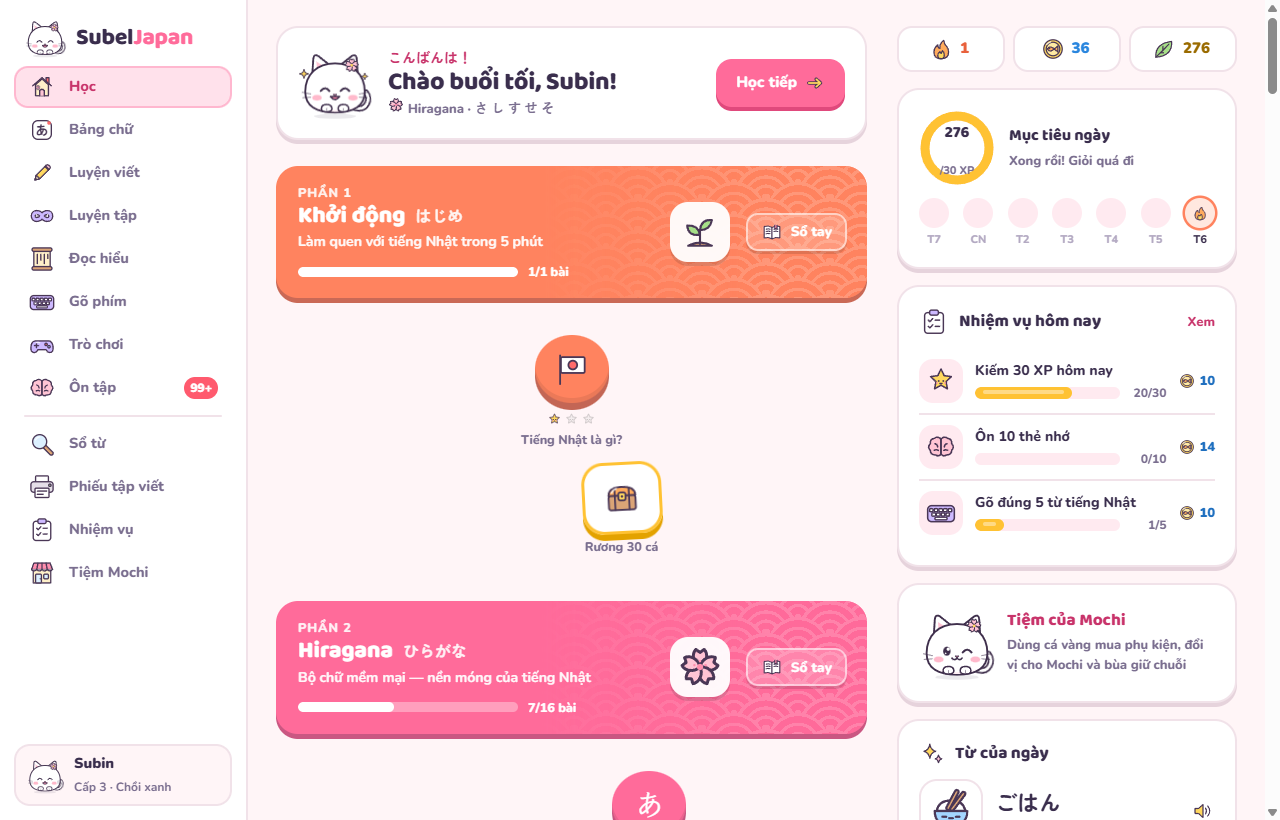
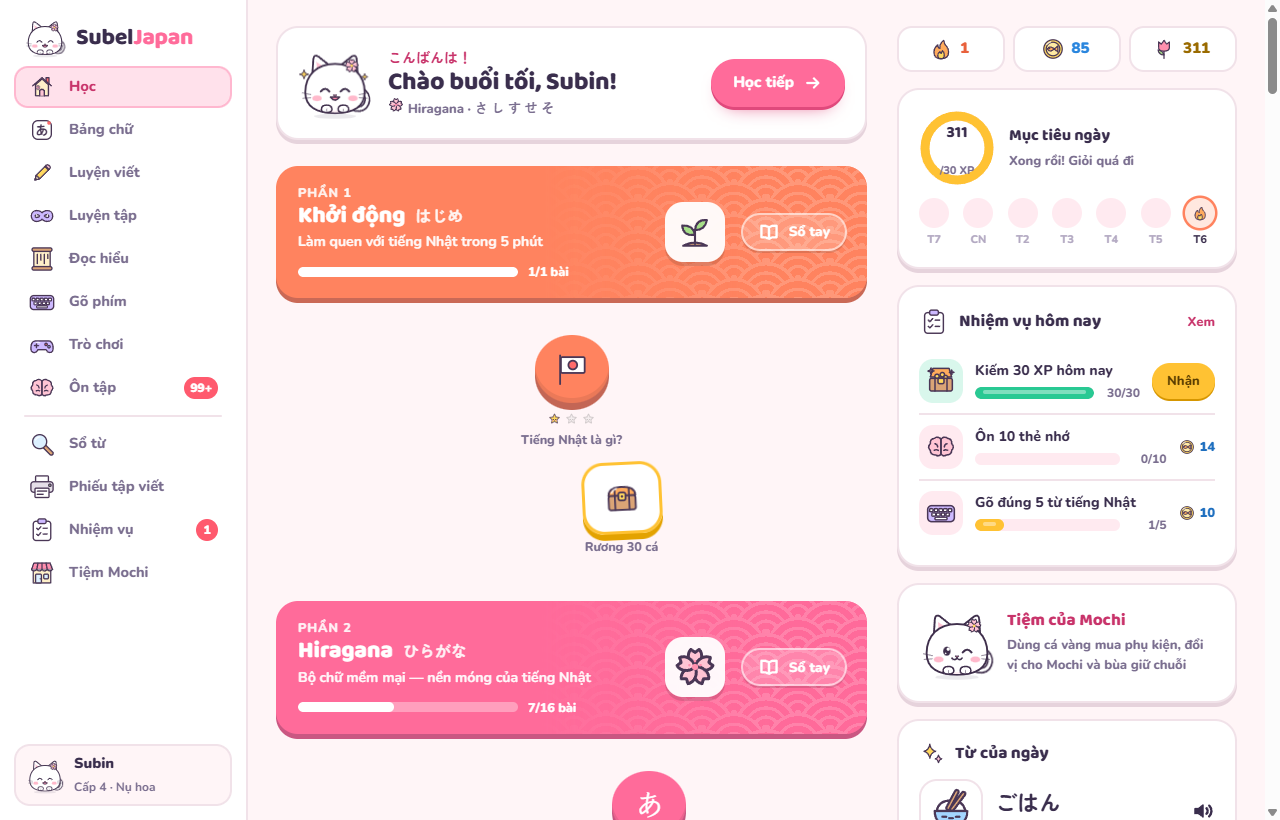
Nút bấm gọn đẹp hơn, căn giữa Mochi, hộp lên cấp mới
- Icon trong nút bấm chuyển sang nét mảnh cùng màu chữ (mũi tên, loa, bút, X…)
- Nút bo tròn dạng viên thuốc, bóng nhẹ hơn; nút đóng hộp thoại tối giản
- Mochi luôn căn giữa trong hộp thoại; hộp "Lên cấp" có nền hồng và quà cá vàng
- Hộp thoại và thông báo luôn hiện đầy đủ kể cả khi tab chạy nền

diff --git a/css/style.css b/css/style.css
@@ -1219,3 +1219,53 @@ code { font: 800 .92em var(--f-body); padding: 1px 6px; border-radius: 6px; back
 }
 [data-theme="yoru"] .ic, [data-theme="yoru"] .mascot { filter: drop-shadow(0 0 .7px rgba(255,255,255,.85)) drop-shadow(0 0 .7px rgba(255,255,255,.6)); }
 [data-theme="yoru"] .star:not(.on) { filter: grayscale(1) opacity(.35); }
+
+/* =========================================================
+   Nút bấm tinh chỉnh + icon nét mảnh
+   ========================================================= */
+.gl { display: inline-block; flex: none; fill: none; stroke: currentColor; stroke-width: 2.4; stroke-linecap: round; stroke-linejoin: round; vertical-align: middle; overflow: visible; }
+.gl .f { fill: currentColor; stroke-width: 1.4; }
+.mascot { display: inline-block; vertical-align: middle; }
+.btn {
+  border-radius: 999px; padding: 10px 22px; gap: 9px;
+  box-shadow: 0 3px 0 var(--bd), 0 10px 18px -12px var(--bd);
+  transition: transform .1s, box-shadow .1s, filter .15s, background .15s;
+}
+.btn:hover { filter: brightness(1.04); transform: translateY(-1px); box-shadow: 0 4px 0 var(--bd), 0 12px 20px -12px var(--bd); }
+.btn:active { transform: translateY(2px); box-shadow: 0 1px 0 var(--bd); }
+.btn-lg { border-radius: 999px; padding: 12px 30px; }
+.btn-sm { border-radius: 999px; padding: 6px 15px; box-shadow: 0 2px 0 var(--bd); }
+.btn-sm:hover { box-shadow: 0 3px 0 var(--bd); }
+.btn-sm:active { transform: translateY(1px); box-shadow: 0 1px 0 var(--bd); }
+.btn .gl { stroke-width: 2.6; }
+.btn-white, .btn-paper { --bd: var(--line2); border: 2px solid var(--line); color: var(--ink); }
+.btn-white .gl, .btn-paper .gl { color: var(--pri-t); }
+.btn-ghost, .btn-ghost:hover { box-shadow: none; transform: none; }
+.btn[disabled], .btn.disabled { box-shadow: none; transform: none; opacity: .75; }
+.btn-round { width: 48px; height: 48px; min-height: 48px; padding: 0; }
+.btn-yel { --bd: #d69600; }
+.ub-guide { border-radius: 999px; }
+.modal-x { width: 38px; height: 38px; border-radius: 50%; background: transparent; color: var(--ink3); transition: background .15s, color .15s; }
+.modal-x:hover { background: var(--bg2); color: var(--ink); }
+.lesson-x { color: var(--ink3); opacity: 1; border-radius: 50%; }
+.lesson-x:hover { color: var(--ink); }
+.icon-btn { color: var(--ink2); border-radius: 50%; }
+.say-btn { color: var(--pri-t); border-radius: 50%; }
+.ex-say { color: var(--ink3); opacity: 1; }
+.chip-btn { border-radius: 999px; }
+.seg { border-radius: 999px; }
+.seg button { border-radius: 999px; }
+.lesson-foot [data-prev] { border-radius: 50%; width: 56px; height: 56px; min-height: 56px; }
+@media (max-width: 760px) { .lesson-foot [data-prev] { flex: 0 0 56px; } }
+.modal .center > .mascot, .modal-body > .center > .mascot { margin: 0 auto; }
+.pn-pop .btn { border-radius: 999px; }
+.drill-bar { border-radius: 999px; padding-left: 24px; }
+.levelup { text-align: center; }
+.lu-top { position: relative; margin: -26px -26px 14px; padding: 26px 20px 10px; border-radius: 26px 26px 0 0; background: var(--pri-l);
+  background-image: radial-gradient(circle at 20% 30%, rgba(255,255,255,.7) 0 4px, transparent 5px), radial-gradient(circle at 82% 22%, rgba(255,255,255,.7) 0 3px, transparent 4px), radial-gradient(circle at 70% 75%, rgba(255,255,255,.6) 0 5px, transparent 6px); }
+.lu-badge { position: absolute; right: calc(50% - 98px); bottom: 14px; width: 64px; height: 64px; border-radius: 50%; display: grid; place-items: center; background: var(--card); box-shadow: 0 4px 0 var(--line2); }
+.lu-kicker { font: 900 13px var(--f-body); color: var(--pri-t); text-transform: uppercase; letter-spacing: 1.5px; }
+.levelup h2 { font-size: 26px; margin: 4px 0 6px; }
+.levelup p { color: var(--ink2); font-weight: 700; }
+.lu-gift { display: inline-flex; align-items: center; gap: 6px; padding: 6px 16px; border-radius: 999px; background: var(--sky-l); color: var(--sky-t); font: 900 20px var(--f-body); margin-bottom: 16px; }
+@media (max-width: 760px) { .lu-top { margin: -22px -18px 14px; } }

diff --git a/js/icons.js b/js/icons.js
@@ -318,13 +318,42 @@ window.SJ = window.SJ || {};
   Object.keys(NUMS).forEach((k, i) => { const t = NUMS[k]; const s = t.length >= 4 ? 13 : t.length === 3 ? 16 : t.length === 2 ? 20 : 24; I[k] = () => R(7, 7, 34, 34, 10, NCOL[i % NCOL.length]) + T(24, 24 + s * .36, t, s); });
 
   const cache = {};
+  // ---------- Icon nét mảnh (dùng trong nút bấm, theo màu chữ của nút) ----------
+  const GL = {
+    arrow_r: '<path d="M5 12h13.5M13 6.5 18.5 12 13 17.5"/>',
+    arrow_l: '<path d="M19 12H5.5M11 6.5 5.5 12l5.5 5.5"/>',
+    play: '<path class="f" d="M8 5.8v12.4a.8.8 0 0 0 1.2.7l9.6-6.2a.8.8 0 0 0 0-1.4L9.2 5.1A.8.8 0 0 0 8 5.8z"/>',
+    check: '<path d="M5 12.5 9.6 17 19 7.5"/>',
+    batsu: '<path d="M6.5 6.5l11 11M17.5 6.5l-11 11"/>',
+    refresh: '<path d="M19.5 12a7.5 7.5 0 1 1-2.2-5.3M19.5 4.5v4.2h-4.2"/>',
+    speaker: '<path class="f" d="M4 9.6h3.4L12 6v12l-4.6-3.6H4z"/><path d="M15.5 9.2a4 4 0 0 1 0 5.6M18.2 6.6a7.6 7.6 0 0 1 0 10.8"/>',
+    mute: '<path class="f" d="M4 9.6h3.4L12 6v12l-4.6-3.6H4z"/><path d="M15.5 9.5l5 5M20.5 9.5l-5 5"/>',
+    pencil: '<path d="M4.5 19.5l1-4.4L15.6 5a2.1 2.1 0 0 1 3 0l.4.4a2.1 2.1 0 0 1 0 3L8.9 18.5zM13.6 7l3.4 3.4"/>',
+    eraser: '<path d="M8.5 19.5H20M5.6 15.4l8.8-8.8a2 2 0 0 1 2.8 0l2.2 2.2a2 2 0 0 1 0 2.8L12 19.1H8.6zM9.6 11.4l5 5"/>',
+    bulb: '<path d="M9.2 17.5h5.6M10.2 20.5h3.6M12 3.5a5.8 5.8 0 0 0-3.4 10.5c.6.5.9 1.1.9 1.9v.1h5v-.1c0-.8.3-1.4.9-1.9A5.8 5.8 0 0 0 12 3.5z"/>',
+    eye: '<path d="M2.8 12S6.2 5.8 12 5.8 21.2 12 21.2 12 17.8 18.2 12 18.2 2.8 12 2.8 12z"/><circle cx="12" cy="12" r="2.8"/>',
+    undo: '<path d="M9 5.5 4.5 10 9 14.5M4.5 10H15a4.8 4.8 0 0 1 0 9.6h-3"/>',
+    slow: '<path d="M4 16.5h13.5a3 3 0 0 0 3-3v-1"/><path d="M5.5 16.5a6.5 5.5 0 0 1 12 0"/><path d="M8 16.5v2.5M14.5 16.5v2.5M20.5 12.5h.1"/>',
+    download: '<path d="M12 4v11M7 10.5l5 5 5-5M5 20h14"/>',
+    upload: '<path d="M12 15.5V4.5M7 9.5l5-5 5 5M5 20h14"/>',
+    trash: '<path d="M4.5 7h15M9.5 7V4.8h5V7M6.5 7l1 12.5h9l1-12.5M10 10.5v6M14 10.5v6"/>',
+    question: '<circle cx="12" cy="12" r="8.5"/><path d="M9.6 9.6a2.5 2.5 0 1 1 3.6 2.2c-.8.4-1.2 1-1.2 1.8v.3"/><path d="M12 16.8h.01" stroke-width="3"/>',
+    printer: '<path d="M7 9V4h10v5M7 17H5.2A1.7 1.7 0 0 1 3.5 15.3v-4.6A1.7 1.7 0 0 1 5.2 9h13.6a1.7 1.7 0 0 1 1.7 1.7v4.6a1.7 1.7 0 0 1-1.7 1.7H17M7 13.5h10V20H7z"/>',
+    book: '<path d="M12 6.8C10 5.3 7.2 4.8 3.8 5.2v12.6c3.4-.4 6.2.1 8.2 1.6 2-1.5 4.8-2 8.2-1.6V5.2c-3.4-.4-6.2.1-8.2 1.6zM12 6.8v12.6"/>',
+    sparkle: '<path d="M12 3.8l1.7 4.8 4.8 1.7-4.8 1.7L12 16.8l-1.7-4.8-4.8-1.7 4.8-1.7zM18.5 15.5l.7 1.8 1.8.7-1.8.7-.7 1.8-.7-1.8-1.8-.7 1.8-.7z"/>',
+  };
+  const glyph = (name, size, cls) => `<svg class="gl ${cls || ''}" viewBox="0 0 24 24" width="${size}" height="${size}" aria-hidden="true">${GL[name]}</svg>`;
+
   function icon(name, size, cls) {
     size = size || 24;
+    // cỡ nhỏ (trong nút, nhãn) → icon nét mảnh cùng màu chữ cho gọn gàng
+    if (size <= 24 && GL[name]) return glyph(name, size, cls);
     const fn = I[name];
     if (!fn) return '';
     const inner = cache[name] || (cache[name] = fn());
     return `<svg class="ic ${cls || ''}" viewBox="0 0 48 48" width="${size}" height="${size}" aria-hidden="true">${inner}</svg>`;
   }
+  SJ.glyph = (n, s, c) => GL[n] ? glyph(n, s || 20, c) : icon(n, s, c);
   SJ.icon = icon;
   SJ.hasIcon = n => !!I[n];
   SJ.ICON_NAMES = Object.keys(I);

diff --git a/js/app.js b/js/app.js
@@ -105,7 +105,7 @@ window.SJ = window.SJ || {};
   SJ.on('level', lv => {
     setTimeout(() => {
       SJ.audio.sfx('level'); U.confetti(110);
-      const m = U.modal(`<div class="center">${U.mascot('cheer', 140, 'jump')}<div class="mt-s">${I(lv.icon, 64)}</div><h2>Lên cấp ${lv.level}!</h2><p class="bold">Bạn đã trở thành <span style="color:var(--pri-t)">${lv.title}</span>. Mochi tặng bạn 20 cá vàng nè!</p><button class="btn btn-lg btn-block" data-ok>Yay! Tiếp tục</button></div>`, { cls: 'modal-sm' });
+      const m = U.modal(`<div class="levelup"><div class="lu-top">${U.mascot('cheer', 150, 'jump')}<span class="lu-badge">${I(lv.icon, 46)}</span></div><div class="lu-kicker">Lên cấp!</div><h2>Cấp ${lv.level} · ${lv.title}</h2><p>Bạn giỏi quá đi! Mochi tặng bạn <b>20 cá vàng</b> làm quà nè.</p><div class="lu-gift">${I('fishcoin', 30)}<b>+20</b></div><button class="btn btn-lg btn-block" data-ok>Yay! Tiếp tục</button></div>`, { cls: 'modal-sm' });
       m.el.querySelector('[data-ok]').onclick = () => m.close();
     }, 1000);
   });

diff --git a/js/ui.js b/js/ui.js
@@ -116,7 +116,7 @@ window.SJ = window.SJ || {};
     t.className = 'toast'; t.innerHTML = html;
     root.appendChild(t);
     while (root.children.length > 3) root.firstChild.remove();
-    requestAnimationFrame(() => t.classList.add('show'));
+    const show = () => t.classList.add('show'); requestAnimationFrame(show); setTimeout(show, 60);
     setTimeout(() => { t.classList.remove('show'); setTimeout(() => t.remove(), 400); }, ms || 2600);
   }
 
@@ -148,7 +148,7 @@ window.SJ = window.SJ || {};
     back.className = 'modal-back';
     back.innerHTML = `<div class="modal ${opts.cls || ''}" role="dialog" aria-modal="true">${opts.noClose ? '' : `<button class="modal-x" aria-label="Đóng">${I('batsu', 18)}</button>`}<div class="modal-body">${html}</div></div>`;
     document.body.appendChild(back);
-    requestAnimationFrame(() => back.classList.add('show'));
+    const show = () => back.classList.add('show'); requestAnimationFrame(show); setTimeout(show, 60);
     const close = (v) => {
       if (!back.parentNode) return;
       back.classList.remove('show');
